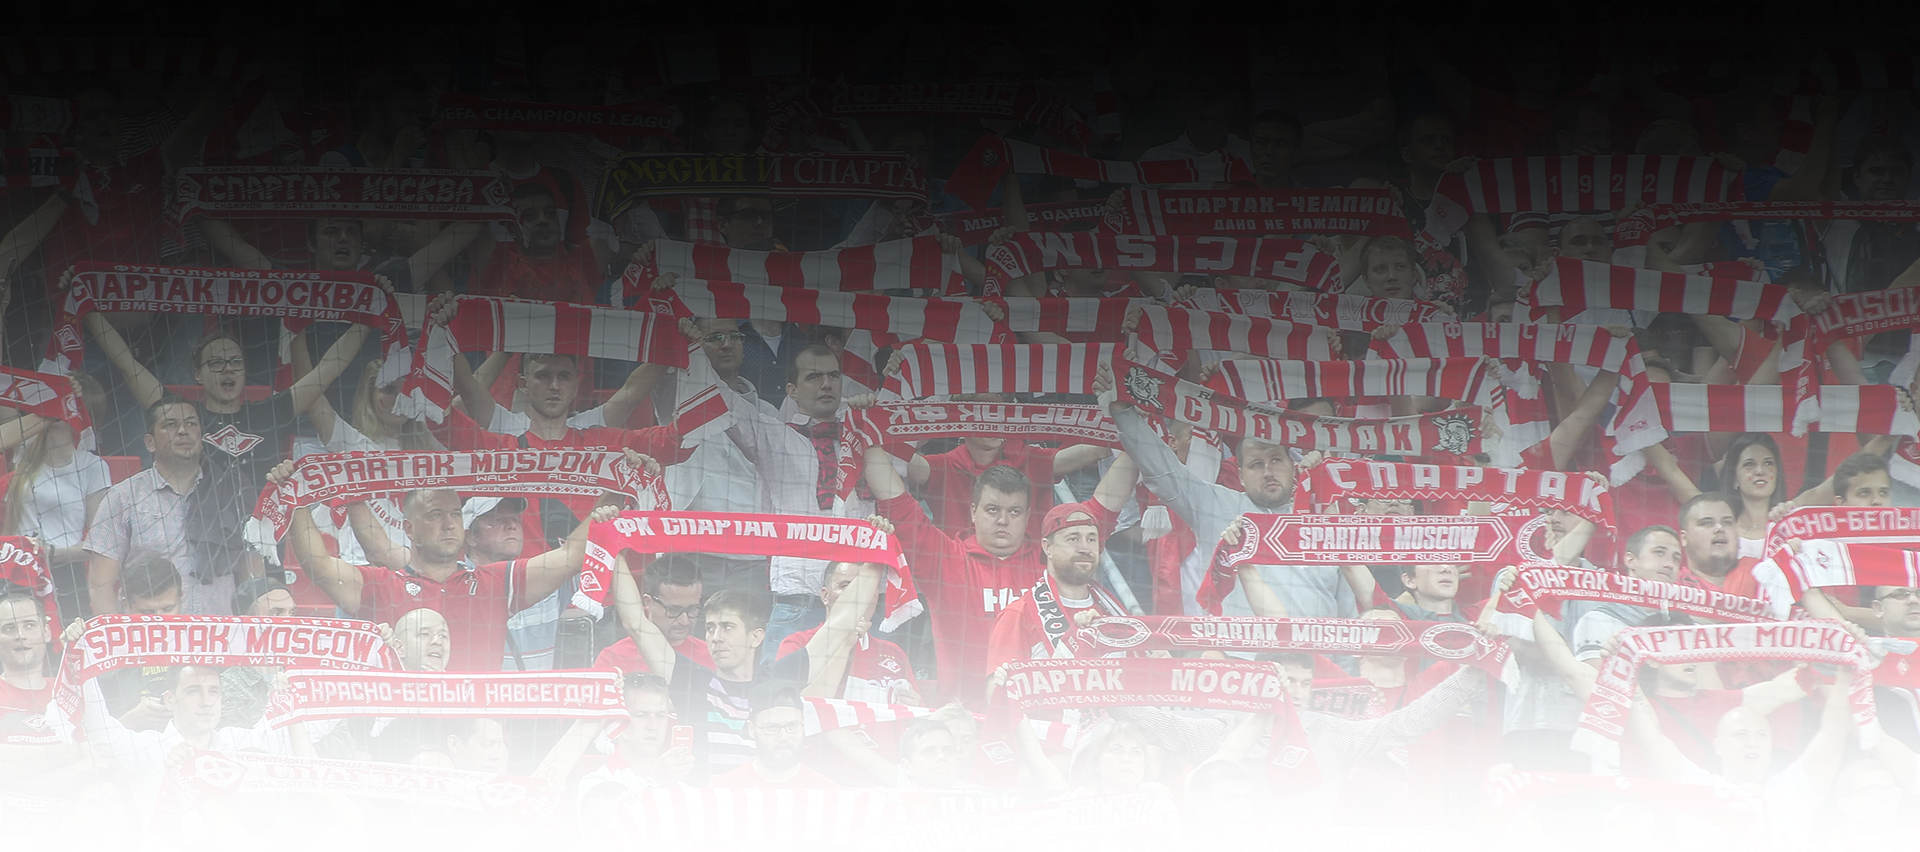
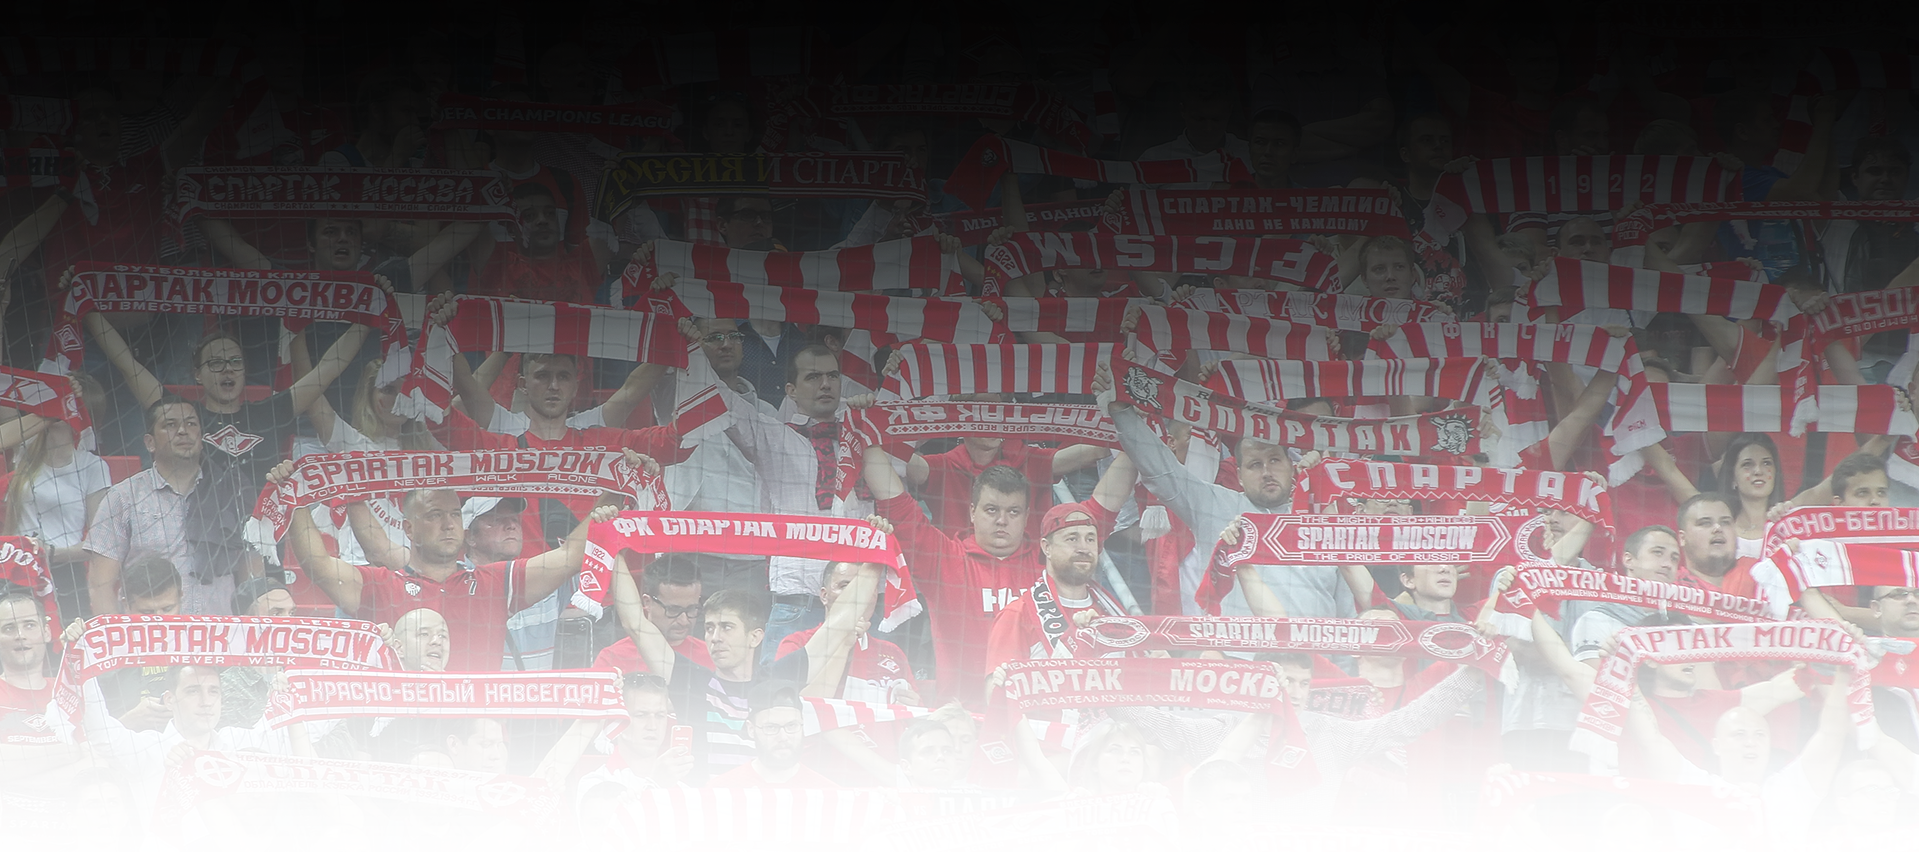
Удалены ненужные картинки, заменена фоновая

diff --git a/src/sass/style.scss b/src/sass/style.scss
@@ -846,7 +846,7 @@ ul {
 
 .pic {
   position: relative;
-  background-image: url(../img/pic-1-1.png);
+  background-image: url(../img/pic-1.png);
   background-repeat: no-repeat;
   background-size: cover;
   background-position: 50% 0;
